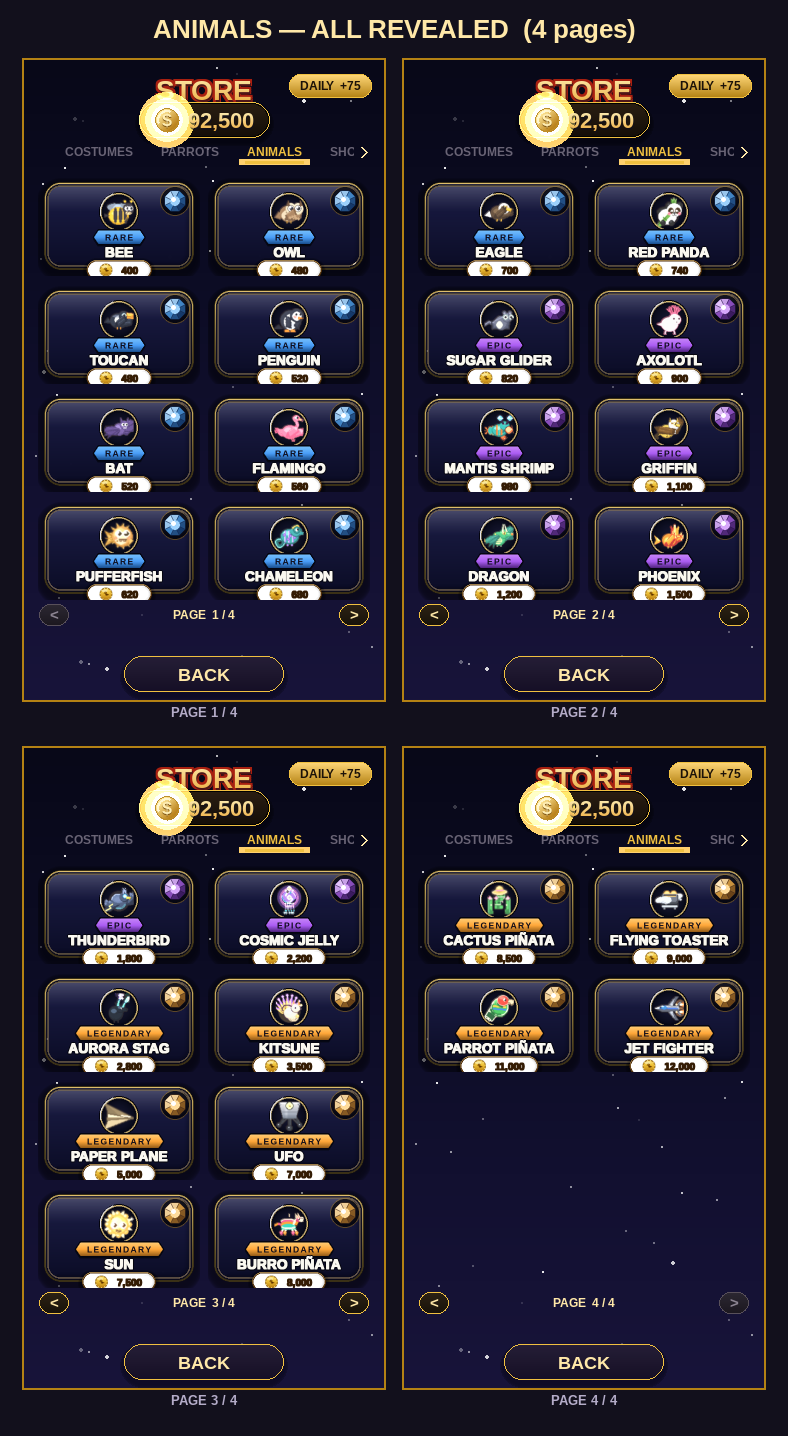
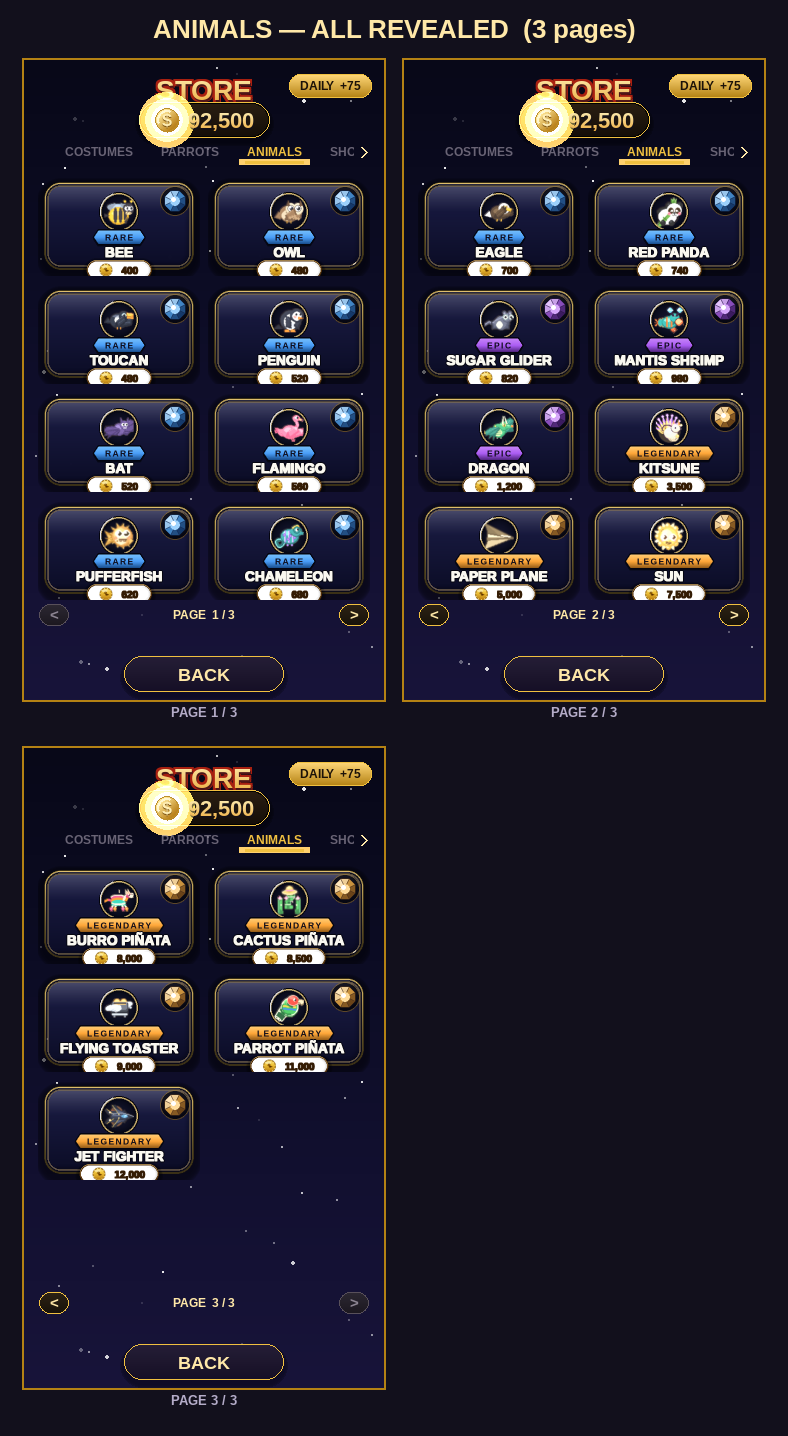
Remove 7 animal skins from store catalog
Removed: aurora stag, cosmic jelly, axolotl, griffin, phoenix, ufo, thunderbird.
Animal category now has 21 items across 3 store pages.
Regenerates all three animal figures.

diff --git a/game/store_catalog.py b/game/store_catalog.py
@@ -71,20 +71,13 @@ CATALOG: dict[str, dict] = {
     "skin_chameleon":    {"name": "CHAMELEON",    "cost": 680,  "kind": "skin", "group": "animal"},
     "skin_red_panda":    {"name": "RED PANDA",    "cost": 740,  "kind": "skin", "group": "animal"},
     "skin_sugar_glider": {"name": "SUGAR GLIDER", "cost": 820,  "kind": "skin", "group": "animal"},
-    "skin_axolotl":      {"name": "AXOLOTL",      "cost": 900,  "kind": "skin", "group": "animal"},
     "skin_mantis_shrimp": {"name": "MANTIS SHRIMP", "cost": 980, "kind": "skin", "group": "animal"},
-    "skin_griffin":      {"name": "GRIFFIN",      "cost": 1100, "kind": "skin", "group": "animal"},
     "skin_dragon":   {"name": "DRAGON",    "cost": 1200, "kind": "skin", "group": "animal"},
-    "skin_phoenix":  {"name": "PHOENIX",   "cost": 1500, "kind": "skin", "group": "animal"},
     # Legendary tier — spectacle showpieces, priced clearly above the rest.
-    "skin_thunderbird":  {"name": "THUNDERBIRD",  "cost": 1800, "kind": "skin", "group": "animal"},
-    "skin_cosmic_jelly": {"name": "COSMIC JELLY", "cost": 2200, "kind": "skin", "group": "animal"},
-    "skin_aurora_stag":  {"name": "AURORA STAG",  "cost": 2800, "kind": "skin", "group": "animal"},
     "skin_kitsune":      {"name": "KITSUNE",      "cost": 3500, "kind": "skin", "group": "animal"},
     # SECRET tier — masked as ??? in the store until bought (price still shown).
     # Ridiculously expensive, completely out-of-the-box NON-creature flyers.
     "skin_paper_plane":  {"name": "PAPER PLANE",   "cost": 5000,  "kind": "skin", "group": "animal", "secret": True},
-    "skin_ufo":          {"name": "UFO",           "cost": 7000,  "kind": "skin", "group": "animal", "secret": True},
     "skin_pinata_burro":  {"name": "BURRO PIÑATA",  "cost": 8000,  "kind": "skin", "group": "animal", "secret": True},
     "skin_pinata_cactus": {"name": "CACTUS PIÑATA", "cost": 8500,  "kind": "skin", "group": "animal", "secret": True},
     "skin_toaster":      {"name": "FLYING TOASTER", "cost": 9000, "kind": "skin", "group": "animal", "secret": True},
